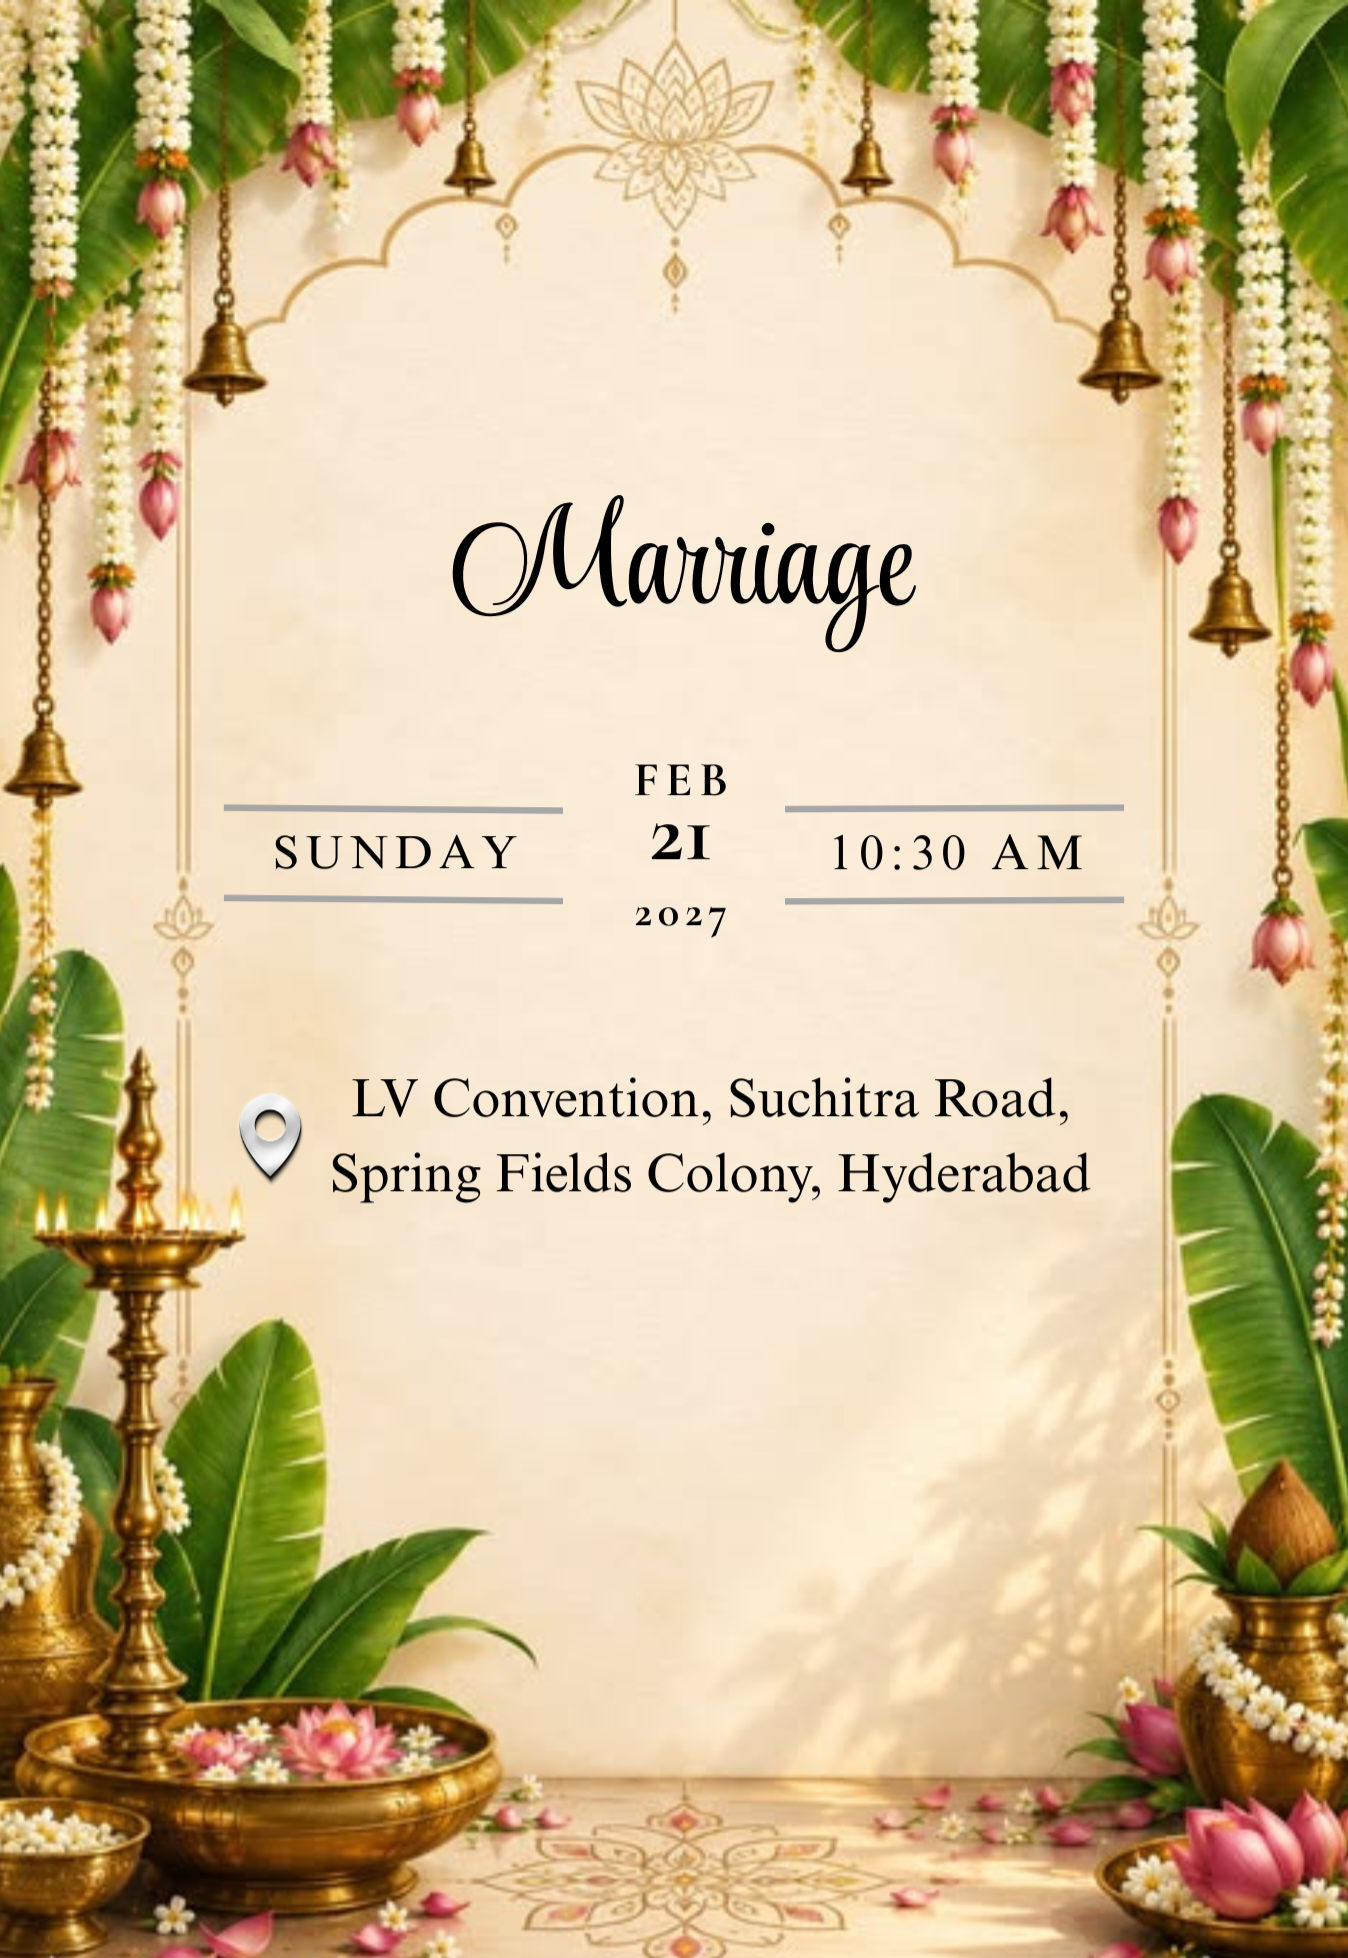
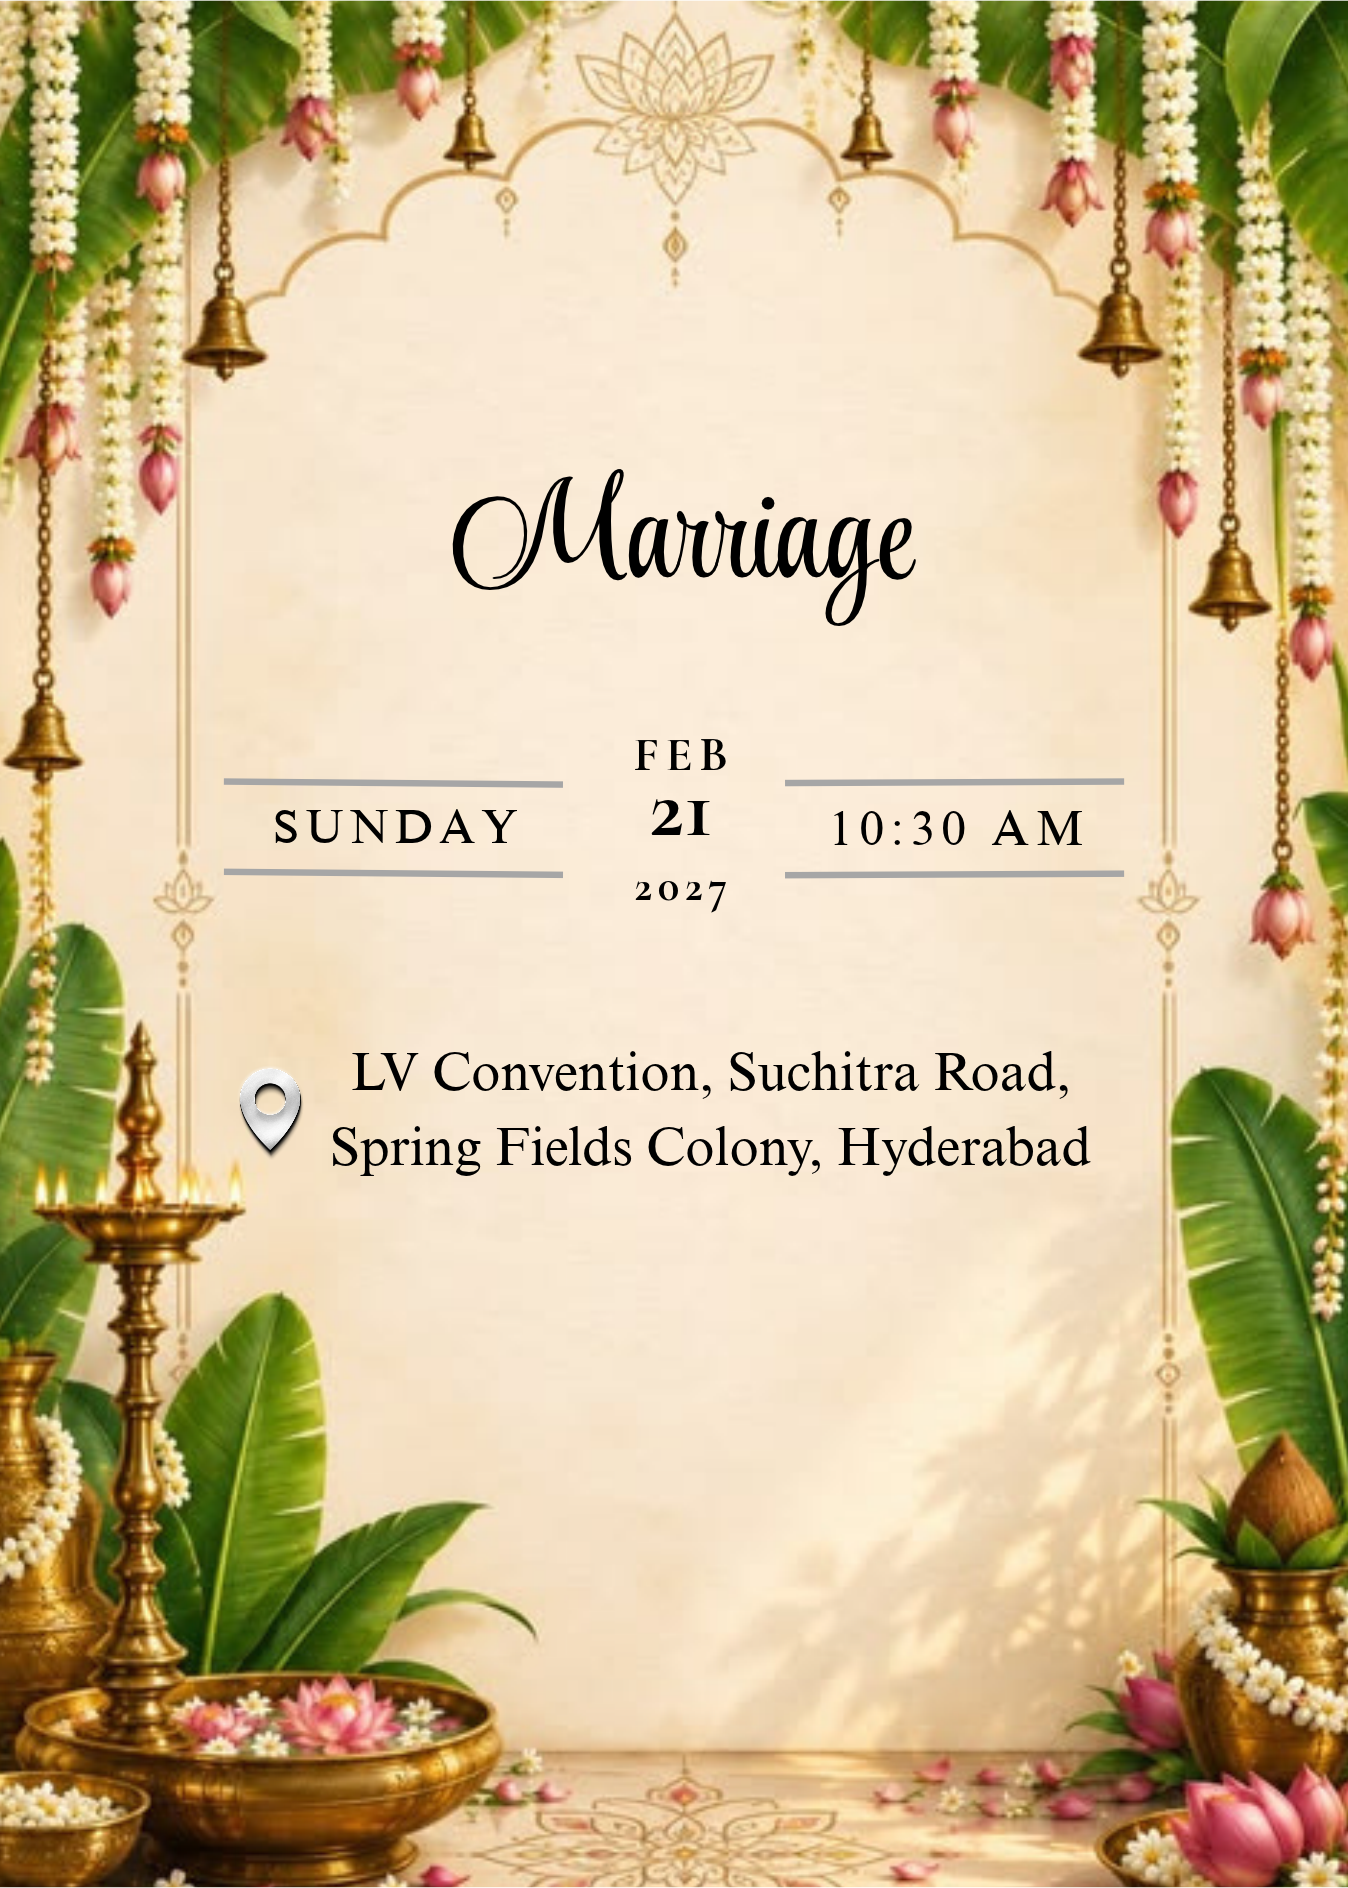
Replace Pellikuturu, Pellikoduku and Marriage invitation images
Claude-Session: https://claude.ai/code/session_01TKswoPEtykbCNgX6iQKVac

diff --git a/app/events/event-parts.tsx b/app/events/event-parts.tsx
@@ -43,9 +43,9 @@ export type Invite = { src: string; width: number; height: number };
 export const INVITE_IMAGES: Record<string, Invite> = {
   haldi: { src: "/prelude/haldi-invite.png", width: 896, height: 1195 },
   sangeet: { src: "/prelude/sangeet-invite.png", width: 1497, height: 2048 },
-  pellikoduku: { src: "/prelude/pellikoduku-invite.png", width: 1348, height: 2048 },
-  pellikuturu: { src: "/prelude/pellikuturu-invite.png", width: 1348, height: 2048 },
-  marriage: { src: "/prelude/marriage-invite.png", width: 1348, height: 1958 },
+  pellikoduku: { src: "/prelude/pellikoduku-invite.png", width: 1348, height: 1972 },
+  pellikuturu: { src: "/prelude/pellikuturu-invite.png", width: 1348, height: 1887 },
+  marriage: { src: "/prelude/marriage-invite.png", width: 1348, height: 1888 },
 };
 
 export function InviteImage({ invite, title }: { invite: Invite; title: string }) {
